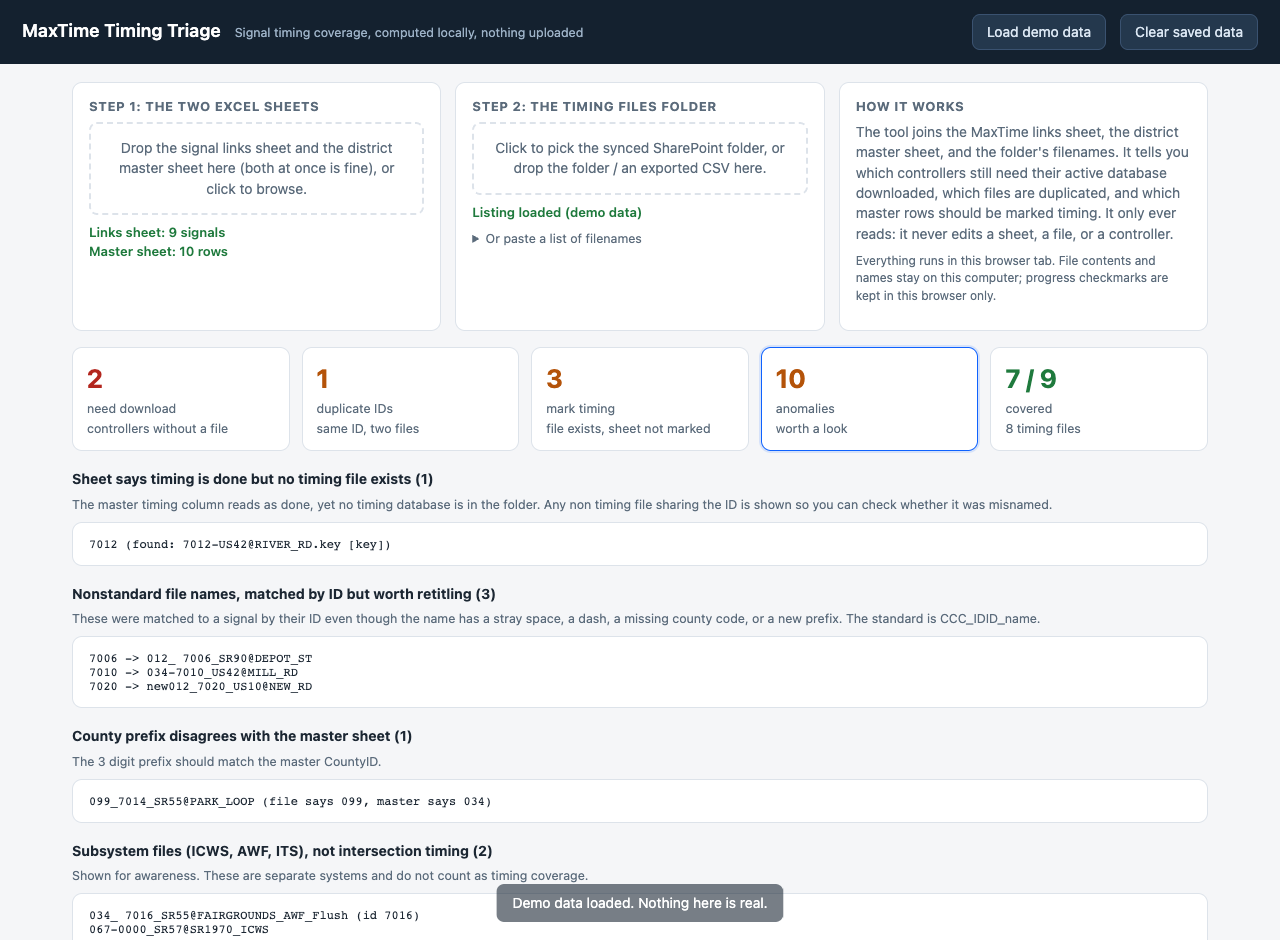
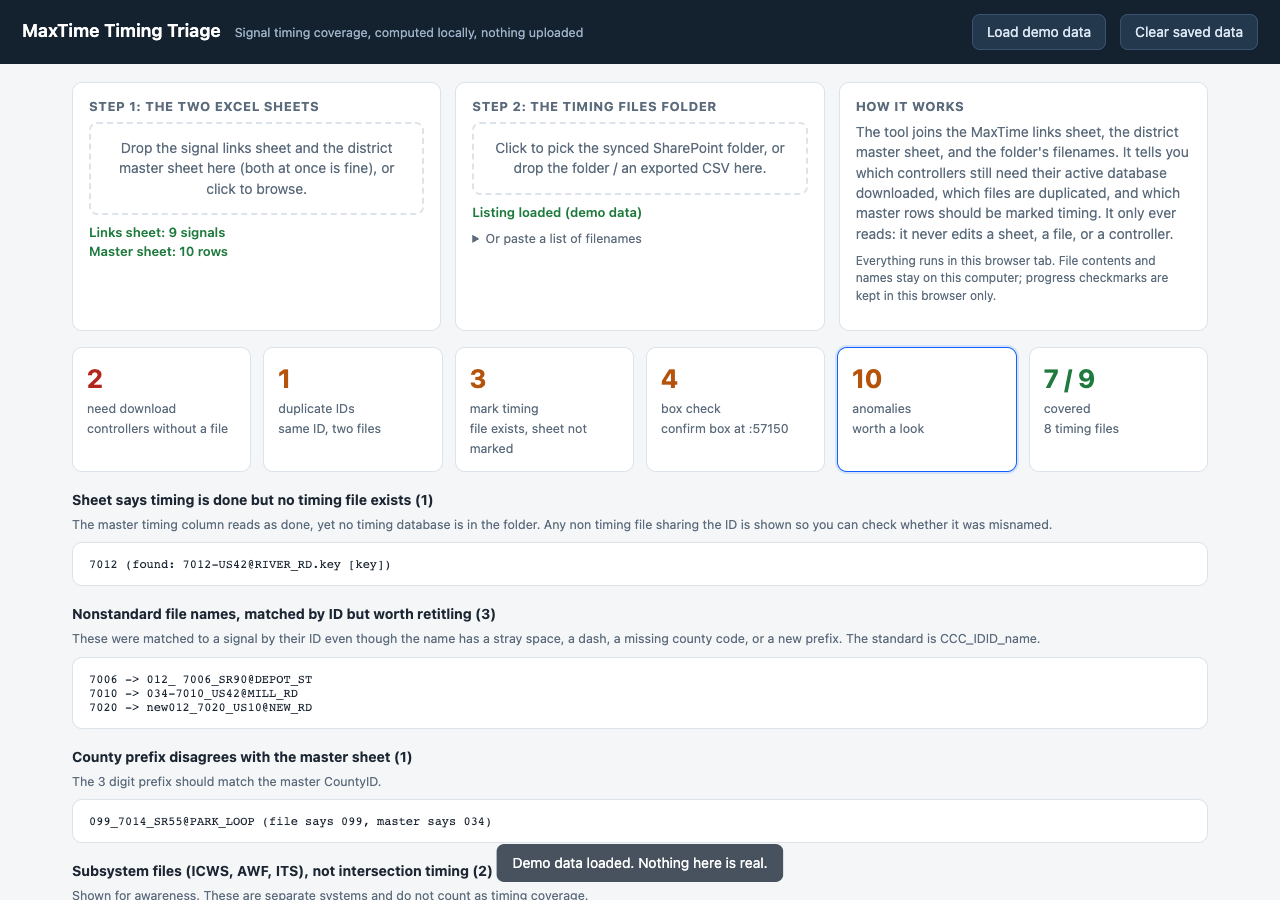
Add box configuration check list with per-signal 57150 links
New Box check tab lists signals whose detection box is not yet confirmed in
the master sheet and that are not front rack, each with a direct link to the
controller at port 57150 where the box is confirmed by looking for sensors.
Detection type is shown so loops are easy to tell from radar, and progress
checkmarks persist. Parses the Detection, box, and box-confirmation master
columns; the confirmation column is matched under either its old name or the
renamed Box Configuration Downloaded. README documents the end to end
workflow including the column rename. Reference, dashboard, and tests updated
together.

diff --git a/webapp/index.html b/webapp/index.html
@@ -127,7 +127,7 @@
 
 <script>
 "use strict";
-const BUILD = "v1.2.0, built 2026-08-24";
+const BUILD = "v1.3.0, built 2026-08-24";
 document.getElementById("stamp").textContent =
   "MaxTime Timing Triage " + BUILD + ". Local only: no network calls, no telemetry.";
 
@@ -292,19 +292,32 @@ function parseLinks(rows) {
   return out;
 }
 
+function findBoxDoneCol(header) {
+  for (const [col, text] of Object.entries(header)) {
+    const t = S(text).toLowerCase();
+    if (t.includes("box") &&
+        ["verif", "confirm", "config", "download"].some(w => t.includes(w)))
+      return +col;
+  }
+  return null;
+}
+
 function parseMaster(rows) {
   const header = rows[0][1];
   const c = {
     id: findCol(header, null, "ID#"), county: findCol(header, ["county"]),
     cid: findCol(header, null, "CountyID"), s1: findCol(header, null, "Street 1"),
     s2: findCol(header, null, "Street 2"), ab: findCol(header, ["timing", "sharepoint"]),
+    det: findCol(header, null, "Detection"), boxfr: findCol(header, ["box", "rack"]),
+    boxdone: findBoxDoneCol(header),
   };
   const out = [];
   for (const [rownum, r] of rows.slice(1)) {
     const sid = S(r[c.id]);
     if (!sid) continue;
     out.push({ row: rownum, id: sid, county: S(r[c.county]), county_id: S(r[c.cid]),
-      s1: S(r[c.s1]), s2: S(r[c.s2]), status: S(r[c.ab]) });
+      s1: S(r[c.s1]), s2: S(r[c.s2]), status: S(r[c.ab]),
+      detection: S(r[c.det]), box_fr: S(r[c.boxfr]), box_done: S(r[c.boxdone]) });
   }
   return out;
 }
@@ -314,6 +327,14 @@ function classifyStatus(text) {
   if (!t) return "todo";
   if (t.includes("timing") || t.includes("yes")) return "done";
   if (t === "na" || t === "n/a") return "excluded";
+  return "todo";
+}
+
+function classifyBox(m) {
+  const fr = S(m.box_fr).toLowerCase(), done = S(m.box_done).toLowerCase();
+  if (fr.includes("front") || fr === "fr") return "frontrack";
+  if (["yes", "confirm", "download", "done"].some(w => done.includes(w)))
+    return "done";
   return "todo";
 }
 
@@ -405,8 +426,17 @@ function analyze(links, master, filenames) {
       classifyStatus(masterById[s].status) === "done")
     .map(s => ({ id: s, related_files: related(s) }));
 
+  const box_check = [];
+  for (const sid of Object.keys(links).sort(idCmp)) {
+    const m = masterById[sid], lk = links[sid];
+    if (!m || !lk.ip || classifyBox(m) !== "todo") continue;
+    box_check.push({ id: sid, master_row: m.row, county: lk.county,
+      main: lk.main, side: lk.side, detection: m.detection,
+      box_fr: m.box_fr, box_done: m.box_done, url: `http://${lk.ip}:57150` });
+  }
+
   return {
-    needs_download, duplicates, mark_timing,
+    needs_download, duplicates, mark_timing, box_check,
     anomalies: {
       nonstandard_naming, special_files, unmatched_files, county_mismatch,
       links_not_in_master, master_dup_ids, says_done_no_file,
@@ -431,6 +461,7 @@ let state = {
   listing: store.get("listing", null),
   listingLabel: store.get("listingLabel", ""),
   done: store.get("done", {}),
+  boxdone: store.get("boxdone", {}),
   tab: store.get("tab", "needs"),
 };
 let result = null;
@@ -558,10 +589,10 @@ function wireInputs() {
   };
   document.getElementById("btnClear").onclick = () => {
     if (!confirm("Forget the loaded sheets, listing, and all checkmarks?")) return;
-    for (const k of ["links", "master", "listing", "listingLabel", "done", "tab"])
+    for (const k of ["links", "master", "listing", "listingLabel", "done", "boxdone", "tab"])
       store.del(k);
     state = { links: null, master: null, listing: null, listingLabel: "",
-      done: {}, tab: "needs" };
+      done: {}, boxdone: {}, tab: "needs" };
     refresh(); toast("Cleared");
   };
   document.getElementById("btnDemo").onclick = loadDemo;
@@ -609,6 +640,9 @@ function renderSummary() {
     ["dups", r.duplicates.length, "duplicate IDs", "n-warn", "same ID, two files"],
     ["mark", r.mark_timing.length, "mark timing", "n-warn",
       "file exists, sheet not marked"],
+    ["box", r.box_check.length, "box check", "n-warn",
+      (() => { const d = r.box_check.filter(e => state.boxdone[e.id]).length;
+        return d ? d + " checked off" : "confirm box at :57150"; })()],
     ["anom", anomalyCount(r.anomalies), "anomalies", "n-warn", "worth a look"],
     ["cov", (Object.keys(state.links).length - r.needs_download.length) +
       " / " + Object.keys(state.links).length,
@@ -706,6 +740,40 @@ function renderPanel() {
     document.getElementById("btnCopyMark").onclick = () =>
       copyText(r.mark_timing.map(m => m.id + "\trow " + m.master_row).join("\n"),
         "mark timing list");
+  } else if (state.tab === "box") {
+    if (!r.box_check.length) {
+      p.innerHTML = `<div class="empty">No signals need a box configuration check.</div>`;
+      return;
+    }
+    p.innerHTML = `
+      <div class="bar">
+        <span class="note">These signals are not yet confirmed in the box column
+        and are not front rack. Open each controller at port 57150, check
+        Properties for sensors to confirm the box, then mark the master column.
+        Loops usually mean no box (mark N A); radar or wavetronix means there is
+        a box to configure. Check a row off as you go.</span>
+      </div>
+      <table><thead><tr><th></th><th>ID</th><th>County</th><th>Intersection</th>
+      <th>Detection</th><th>Box column</th><th>Open at :57150</th>
+      <th>Master row</th></tr></thead><tbody>` +
+      r.box_check.map(e => `
+        <tr class="${state.boxdone[e.id] ? "done" : ""}">
+          <td><input type="checkbox" data-box="${h(e.id)}"
+            ${state.boxdone[e.id] ? "checked" : ""}></td>
+          <td><span class="chip">${h(e.id)}</span></td>
+          <td>${h(e.county)}</td>
+          <td>${h(e.main)} @ ${h(e.side)}</td>
+          <td>${h(e.detection) || "?"}</td>
+          <td>${h(e.box_fr) || "(blank)"}${e.box_done ? " / " + h(e.box_done) : ""}</td>
+          <td><a href="${h(e.url)}" target="_blank" rel="noopener">${h(e.url.replace("http://", ""))}</a></td>
+          <td>row ${e.master_row}</td>
+        </tr>`).join("") + "</tbody></table>";
+    for (const cb of p.querySelectorAll("input[type=checkbox][data-box]"))
+      cb.onchange = () => {
+        if (cb.checked) state.boxdone[cb.dataset.box] = new Date().toISOString();
+        else delete state.boxdone[cb.dataset.box];
+        store.set("boxdone", state.boxdone); renderSummary(); renderPanel();
+      };
   } else if (state.tab === "anom") {
     const a = r.anomalies;
     const section = (title, exp, items) => items.length ? `
@@ -780,17 +848,20 @@ function loadDemo() {
     mk("7016", "CEDAR", "SR 55", "FAIRGROUNDS", "198.51.100.24"),
     mk("7020", "CEDAR", "US 10", "NEW RD", "198.51.100.25"),
   ]);
+  const M = (row, id, county, cid, s1, s2, status, det, boxfr, boxdone) =>
+    ({ row, id, county, county_id: cid, s1, s2, status,
+       detection: det, box_fr: boxfr, box_done: boxdone });
   state.master = [
-    { row: 2, id: "7000", county: "MAPLE", county_id: "12", s1: "US 10", s2: "OAK ST", status: "yes" },
-    { row: 3, id: "7000", county: "MAPLE", county_id: "12", s1: "US 10", s2: "OAK STREET", status: "" },
-    { row: 4, id: "7002", county: "MAPLE", county_id: "12", s1: "US 10", s2: "ELM AVE", status: "" },
-    { row: 5, id: "7004", county: "MAPLE", county_id: "12", s1: "SR 90", s2: "SCHOOL DR", status: "timing 2025" },
-    { row: 6, id: "7006", county: "MAPLE", county_id: "12", s1: "SR 90", s2: "DEPOT ST", status: "" },
-    { row: 7, id: "7010", county: "CEDAR", county_id: "34", s1: "US 42", s2: "MILL RD", status: "" },
-    { row: 8, id: "7012", county: "CEDAR", county_id: "34", s1: "US 42", s2: "RIVER RD", status: "yes" },
-    { row: 9, id: "7014", county: "CEDAR", county_id: "34", s1: "SR 55", s2: "PARK LOOP", status: "na" },
-    { row: 10, id: "7016", county: "CEDAR", county_id: "34", s1: "SR 55", s2: "FAIRGROUNDS", status: "" },
-    { row: 11, id: "7018", county: "CEDAR", county_id: "34", s1: "SR 55", s2: "OLD KILN RD", status: "" },
+    M(2, "7000", "MAPLE", "12", "US 10", "OAK ST", "yes", "Loops", "box", "yes"),
+    M(3, "7000", "MAPLE", "12", "US 10", "OAK STREET", "", "Loops", "", ""),
+    M(4, "7002", "MAPLE", "12", "US 10", "ELM AVE", "", "Wavetronix", "box", ""),
+    M(5, "7004", "MAPLE", "12", "SR 90", "SCHOOL DR", "timing 2025", "Loops", "FR", ""),
+    M(6, "7006", "MAPLE", "12", "SR 90", "DEPOT ST", "", "Wavetronix", "", ""),
+    M(7, "7010", "CEDAR", "34", "US 42", "MILL RD", "", "Loops", "", ""),
+    M(8, "7012", "CEDAR", "34", "US 42", "RIVER RD", "yes", "Loops", "box", "yes"),
+    M(9, "7014", "CEDAR", "34", "SR 55", "PARK LOOP", "na", "Loops", "FR", ""),
+    M(10, "7016", "CEDAR", "34", "SR 55", "FAIRGROUNDS", "", "Wavetronix", "box", ""),
+    M(11, "7018", "CEDAR", "34", "SR 55", "OLD KILN RD", "", "Loops", "", ""),
   ];
   state.listing = [
     "012_7000_US10@OAK_ST",              // standard, covered

diff --git a/tools/triage_lib.py b/tools/triage_lib.py
@@ -96,8 +96,20 @@ def parse_links(path):
     return out
 
 
+def _find_box_done_col(header):
+    """The box confirmation column, under its old name ('Box Verified & saved
+    to CO sharepoint') or the renamed one ('Box Configuration Downloaded')."""
+    for col, text in header.items():
+        t = str(text).strip().lower()
+        if "box" in t and any(w in t for w in
+                              ("verif", "confirm", "config", "download")):
+            return col
+    return None
+
+
 def parse_master(path):
-    """List of master rows: {row, id, county, county_id, s1, s2, status}."""
+    """List of master rows: {row, id, county, county_id, s1, s2, status,
+    detection, box_fr, box_done}."""
     rows = read_sheet(path, "MASTER SIGNAL LIST")
     header = rows[0][1]
     c_id = _find_col(header, exact="ID#")
@@ -106,6 +118,9 @@ def parse_master(path):
     c_s1 = _find_col(header, exact="Street 1")
     c_s2 = _find_col(header, exact="Street 2")
     c_ab = _find_col(header, "timing", "sharepoint")
+    c_det = _find_col(header, exact="Detection")
+    c_boxfr = _find_col(header, "box", "rack")
+    c_boxdone = _find_box_done_col(header)
     out = []
     for rownum, r in rows[1:]:
         sid = str(r.get(c_id, "")).strip()
@@ -119,6 +134,9 @@ def parse_master(path):
             "s1": str(r.get(c_s1, "")).strip(),
             "s2": str(r.get(c_s2, "")).strip(),
             "status": str(r.get(c_ab, "")).strip(),
+            "detection": str(r.get(c_det, "")).strip(),
+            "box_fr": str(r.get(c_boxfr, "")).strip(),
+            "box_done": str(r.get(c_boxdone, "")).strip(),
         })
     return out
 
@@ -132,6 +150,22 @@ def classify_status(text):
         return "done"
     if t == "na" or t == "n/a":
         return "excluded"
+    return "todo"
+
+
+def classify_box(m):
+    """Whether a signal still needs its box configuration checked.
+
+    'frontrack' signals have no detection box and are skipped. 'done' means the
+    box column already records a confirmed/downloaded box. Otherwise 'todo':
+    the field still needs a look at http://IP:57150.
+    """
+    fr = (m.get("box_fr") or "").strip().lower()
+    done = (m.get("box_done") or "").strip().lower()
+    if "front" in fr or fr == "fr":
+        return "frontrack"
+    if any(w in done for w in ("yes", "confirm", "download", "done")):
+        return "done"
     return "todo"
 
 
@@ -290,10 +324,25 @@ def analyze(links, master, filenames):
         if s not in covered and s in master_by_id
         and classify_status(master_by_id[s]["status"]) == "done"]
 
+    box_check = []
+    for sid in sorted(links, key=lambda s: (len(s), s)):
+        m = master_by_id.get(sid)
+        lk = links[sid]
+        if not m or not lk["ip"] or classify_box(m) != "todo":
+            continue
+        box_check.append({
+            "id": sid, "master_row": m["row"], "county": lk["county"],
+            "main": lk["main"], "side": lk["side"],
+            "detection": m["detection"], "box_fr": m["box_fr"],
+            "box_done": m["box_done"],
+            "url": "http://%s:57150" % lk["ip"],
+        })
+
     return {
         "needs_download": needs_download,
         "duplicates": duplicates,
         "mark_timing": mark_timing,
+        "box_check": box_check,
         "anomalies": {
             "nonstandard_naming": nonstandard_naming,
             "special_files": special_files,

diff --git a/tools/verify.py b/tools/verify.py
@@ -104,6 +104,12 @@ def main():
     assert {n["id"] for n in an["nonstandard_naming"]} >= {
         variants["space"], variants["dash"], variants["new"]}
     assert result["info"]["ignored_count"] == 4
+    # box_check comes purely from the master and links sheets: every entry must
+    # have a :57150 link and correspond to a real todo row.
+    for e in result["box_check"]:
+        assert e["url"].endswith(":57150"), e
+        assert T.classify_box(next(m for m in master if m["id"] == e["id"]
+                                   and m["row"] == e["master_row"])) == "todo"
 
     data = pathlib.Path(__file__).parent.parent / "data"
     data.mkdir(exist_ok=True)
@@ -115,6 +121,7 @@ def main():
     print("needs download: %d  %s" % (len(need_ids), need_ids))
     print("duplicates: %s" % [d["id"] for d in result["duplicates"]])
     print("mark timing: %d" % len(result["mark_timing"]))
+    print("box check: %d" % len(result["box_check"]))
     for k, v in an.items():
         print("anomaly %s: %d" % (k, len(v)))
     print("info master_not_in_links: %d" % len(result["info"]["master_not_in_links"]))

diff --git a/README.md b/README.md
@@ -38,6 +38,10 @@ separate list flags the ones whose names should be standardized.
   note text for the sheet.
 - **Mark timing**: signals whose file exists but whose master sheet row does
   not say so yet, with the exact row number to update.
+- **Box check**: signals whose detection box is not yet confirmed in the master
+  sheet and that are not front rack, each with a direct link to the controller
+  at port 57150 where the box is confirmed. The detection type is shown so
+  loops (usually no box) are easy to tell from radar.
 - **Anomalies**: nonstandard file names worth retitling, county prefixes that
   contradict the master sheet, subsystem files (ICWS, AWF) that are not timing
   databases, files matching no known signal, signals linked but missing from
@@ -62,6 +66,20 @@ SharePoint stays a deliberate manual step. The two endpoints it uses are
 documented in `downloader/PROTOCOL.md`; an offline test
 (`downloader/test_downloader.py`) drives the client against a mock
 controller that replays them.
+
+## The workflow it supports
+
+1. Load the two sheets and the folder listing.
+2. Mark timing for the signals in that list, in the master sheet.
+3. Download the missing databases (the CSV export feeds
+   `downloader/fetch_missing.py`), confirm each is the intended one, and place
+   it in SharePoint.
+4. Work the box check list: open each controller at port 57150, confirm the
+   box, and update the master column.
+5. Resolve the anomalies by hand: retitle nonstandard files, reconcile
+   duplicate master rows, and fill in missing IDs.
+6. Rename the master sheet's box column from "Box Verified" to
+   "Box Configuration Downloaded"; the tool reads either name.
 
 ## Privacy by design
 
